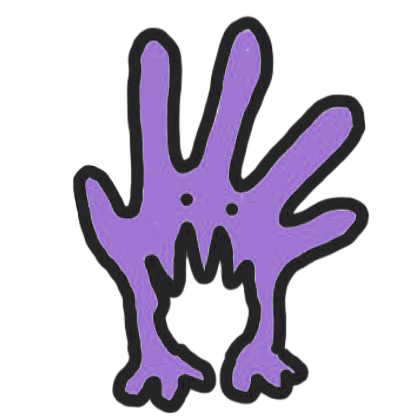
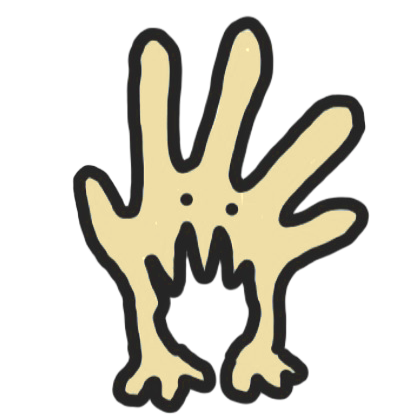
달그락 색을 컬러칩 한 벌로: 팀 색과 사용자 색
대장 민트, 소프트웨어 하늘, 하드웨어 연보라(전자회로 파랑보라 + 기구설계 분홍을 합친 색),
제품 디자인 노랑. 캐릭터 그림도 같은 색으로 다시 칠했다. 내 차례·새로 온 것처럼
사람에게 알리는 표시는 모두 사용자 색(살구)을 쓴다.

Claude-Session: https://claude.ai/code/session_01WjdEFsaTPx9PgsdKqemoJs

Changed region(s): [[0.1857, 0.0619, 0.8667, 0.9595]]

diff --git a/apps/web/app/styles.css b/apps/web/app/styles.css
@@ -235,18 +235,18 @@
 
 /* 새로 온 것. 숫자만 늘어나면 바뀐 줄을 모르고 지나가므로, 한 번 반짝이고
    점으로 남는다. 계속 깜빡이면 그게 더 큰 소음이라 반짝임은 한 번만 준다. */
-.new-dot{display:inline-flex;align-items:center;justify-content:center;min-width:7px;height:7px;border-radius:999px;background:#d98b3a;vertical-align:middle;margin-right:5px}
+.new-dot{display:inline-flex;align-items:center;justify-content:center;min-width:7px;height:7px;border-radius:999px;background:#edb69a;vertical-align:middle;margin-right:5px}
 .workbench-toggle .new-dot{width:7px;min-width:7px;height:7px;margin:0 0 0 5px}
-.workbench-toggle.has-new{box-shadow:0 0 0 1px #e6c08a}
+.workbench-toggle.has-new{box-shadow:0 0 0 1px #edb69a}
 .new-banner{display:flex;align-items:center;gap:2px;width:calc(100% - 44px);margin:0 22px 8px;padding:9px 12px;border:1px solid #ecd3a8;background:#fdf6e9;border-radius:10px;font-size:12px;color:#8a6a33;text-align:left;cursor:pointer}
 .new-banner:hover{background:#fbf0dc}
-.artifact-tabs button.is-new{box-shadow:inset 0 -2px 0 #d98b3a}
+.artifact-tabs button.is-new{box-shadow:inset 0 -2px 0 #edb69a}
 tr.is-new>td{background:#fdf7ec}
 tr.is-new{animation:new-flash 1.6s ease-out 1}
 .new-banner{animation:new-flash 1.6s ease-out 1}
 @keyframes new-flash{0%{background:#f6e2bd}60%{background:#fdf6e9}100%{background:transparent}}
 tr.is-new{animation-name:new-flash-row}
-@keyframes new-flash-row{0%{box-shadow:inset 3px 0 0 #d98b3a}100%{box-shadow:inset 3px 0 0 #e8d6b4}}
+@keyframes new-flash-row{0%{box-shadow:inset 3px 0 0 #edb69a}100%{box-shadow:inset 3px 0 0 #e8d6b4}}
 /* 손으로 그린 아이콘. 글자 옆에 설 때 글자와 같은 색·굵기로 보이도록 선을 글자색에 맡긴다. */
 .ink-icon{flex-shrink:0;vertical-align:-2px;margin-right:2px}
 .folder-rename-button .ink-icon,.folder-delete .ink-icon,.space-items button .ink-icon{margin:0}
@@ -371,11 +371,11 @@ tr.is-new{animation-name:new-flash-row}
 .buy-verify{background:#fbf2da;color:#8d6d2c}
 .buy-blocked{background:#fbe6e2;color:#a2493f}
 .connector-composer p+p{margin-top:8px}.connector-composer a{color:#3f7a6c}
-.helper-live{border:1px solid #d8e6e0;background:#f7fbf9;border-radius:13px;padding:12px 14px;margin-bottom:10px;max-height:38vh;overflow:auto}.helper-live-text{margin:0;font-size:14px;line-height:1.75;white-space:pre-wrap;word-break:keep-all;overflow-wrap:anywhere}.helper-live-step{margin:6px 0 0;font-size:12px;color:#6f7d75}.helper-live-error{margin:6px 0 0;font-size:13px;color:#a2452c}.helper-live-error button{margin-left:8px;font-size:12px}.composer-hint a{color:inherit}
-.form-findings{border-radius:12px;padding:12px 14px;margin:10px 0;font-size:13px;line-height:1.7}.form-findings.ok{background:#f1f7f4;border:1px solid #cfe3da}.form-findings.bad{background:#fdf3ef;border:1px solid #f0c4b3}.form-findings strong{display:block}.form-findings.bad strong{color:#a2452c}.form-findings ul{margin:6px 0 0;padding-left:18px}.form-findings details{margin-top:6px}.form-findings summary{cursor:pointer;color:#6f7d75}
+.helper-live{border:1px solid #d8e6e0;background:#f7fbf9;border-radius:13px;padding:12px 14px;margin-bottom:10px;max-height:38vh;overflow:auto}.helper-live-text{margin:0;font-size:14px;line-height:1.75;white-space:pre-wrap;word-break:keep-all;overflow-wrap:anywhere}.helper-live-step{margin:6px 0 0;font-size:12px;color:#6f7d75}.helper-live-error{margin:6px 0 0;font-size:13px;color:#a65a36}.helper-live-error button{margin-left:8px;font-size:12px}.composer-hint a{color:inherit}
+.form-findings{border-radius:12px;padding:12px 14px;margin:10px 0;font-size:13px;line-height:1.7}.form-findings.ok{background:#f1f7f4;border:1px solid #cfe3da}.form-findings.bad{background:#fdf3ef;border:1px solid #edb69a}.form-findings strong{display:block}.form-findings.bad strong{color:#a65a36}.form-findings ul{margin:6px 0 0;padding-left:18px}.form-findings details{margin-top:6px}.form-findings summary{cursor:pointer;color:#6f7d75}
 .suggest-chip{border:1px dashed #b9d4cb;background:#f1f7f4;color:#3f7a6c;border-radius:999px;padding:4px 12px;font-size:12px;cursor:pointer;max-width:60%;overflow:hidden;text-overflow:ellipsis;white-space:nowrap}.suggest-chip:hover{background:#e4f0ea}
 .account-hub{max-width:640px}.hub-tabs{flex-wrap:wrap}.hub-hint{margin:8px 0 14px}.hub-save{position:sticky;bottom:-1px;background:linear-gradient(to top,var(--paper,#fbfbf8) 78%,transparent);padding:16px 0 4px;margin-top:14px;display:grid;gap:8px}.hub-save small{color:#6f7d75}.hub-more{margin-top:16px;border-top:1px solid #e3e8e5;padding-top:12px}.hub-more summary{cursor:pointer;font-weight:600;font-size:13px}.helper-state{font-size:13px;padding:8px 12px;border-radius:10px;background:#f3f3f0;color:#6f7d75}.helper-state.on{background:#e4f0ea;color:#2e6b5c}
-.person-summary{border:1px solid #d8e6e0;background:#f7fbf9;border-radius:12px;padding:12px 14px;margin:14px 0;display:grid;gap:6px}.person-summary.missing{border-color:#f0c4b3;background:#fdf7f4}.person-summary p{margin:0;font-size:13px;color:#4c5a53}.person-summary button{justify-self:start}
+.person-summary{border:1px solid #d8e6e0;background:#f7fbf9;border-radius:12px;padding:12px 14px;margin:14px 0;display:grid;gap:6px}.person-summary.missing{border-color:#edb69a;background:#fdf3ec}.person-summary p{margin:0;font-size:13px;color:#4c5a53}.person-summary button{justify-self:start}
 /* 입력창은 쓴 만큼만 자란다. 높이를 끌어 맞추는 손잡이는 없앴다. */
 .resizable-workspace .composer-area{height:auto;min-height:0;overflow:visible;padding-top:8px;padding-bottom:8px}
 .resizable-workspace .composer{flex:none;min-height:0}
@@ -389,19 +389,19 @@ tr.is-new{animation-name:new-flash-row}
 /* ── Claude Code식 배치: 왼쪽 프로젝트와 방 · 가운데 대화 · 오른쪽 현황판 ── */
 .phase-strip,.team-strip,.new-banner{display:none!important}
 .resizable-workspace .chat-scroll,.resizable-workspace .composer-area,.resizable-workspace.artifacts-hidden .chat-scroll,.resizable-workspace.artifacts-hidden .composer-area{padding-left:max(18px,calc((100% - 760px)/2));padding-right:max(18px,calc((100% - 760px)/2))}
-.turn-badge{display:inline-flex;align-items:center;justify-content:center;min-width:18px;height:18px;padding:0 6px;border-radius:999px;background:#e2603f;color:#fff;font-size:11px;font-style:normal;font-weight:700;line-height:1;margin-left:auto}
+.turn-badge{display:inline-flex;align-items:center;justify-content:center;min-width:18px;height:18px;padding:0 6px;border-radius:999px;background:#edb69a;color:#fff;font-size:11px;font-style:normal;font-weight:700;line-height:1;margin-left:auto}
 .project-rooms button{display:flex;align-items:center;gap:6px;width:100%}
-.next-banner{display:flex;align-items:center;gap:10px;margin:10px max(18px,calc((100% - 760px)/2)) 0;padding:10px 14px;border:1px solid #f0c4b3;background:#fdf7f4;border-radius:12px;font-size:13px;text-align:left;cursor:pointer;color:var(--ink)}
-.next-banner .turn-badge{margin-left:0;padding:0 8px;height:20px}.next-banner span:not(.turn-badge){color:#6f7d75;flex:1;min-width:0;overflow:hidden;text-overflow:ellipsis;white-space:nowrap}.next-banner em{font-style:normal;color:#a2452c;white-space:nowrap}
+.next-banner{display:flex;align-items:center;gap:10px;margin:10px max(18px,calc((100% - 760px)/2)) 0;padding:10px 14px;border:1px solid #edb69a;background:#fdf3ec;border-radius:12px;font-size:13px;text-align:left;cursor:pointer;color:var(--ink)}
+.next-banner .turn-badge{margin-left:0;padding:0 8px;height:20px}.next-banner span:not(.turn-badge){color:#6f7d75;flex:1;min-width:0;overflow:hidden;text-overflow:ellipsis;white-space:nowrap}.next-banner em{font-style:normal;color:#a65a36;white-space:nowrap}
 .room-card{display:flex;gap:12px;align-items:center;justify-content:space-between;border:1px solid #d8e6e0;background:#f7fbf9;border-radius:12px;padding:10px 14px;margin:0 0 12px;font-size:13px}
-.room-card small{display:block;color:#6f7d75;font-size:11px}.room-card strong{display:block}.room-card p{margin:2px 0 0;color:#4c5a53}.room-card.turn-person{border-color:#f0c4b3;background:#fdf7f4}.room-card.turn-person small{color:#a2452c;font-weight:700}.room-card.turn-waiting,.room-card.held{background:#f6f6f3;border-style:dashed}.room-card.turn-blocked{border-color:#e2a48f}.room-card button{flex:none;border:1px solid #c9d6cf;background:#fff;border-radius:999px;padding:6px 12px;font-size:12px;cursor:pointer}
+.room-card small{display:block;color:#6f7d75;font-size:11px}.room-card strong{display:block}.room-card p{margin:2px 0 0;color:#4c5a53}.room-card.turn-person{border-color:#edb69a;background:#fdf3ec}.room-card.turn-person small{color:#a65a36;font-weight:700}.room-card.turn-waiting,.room-card.held{background:#f6f6f3;border-style:dashed}.room-card.turn-blocked{border-color:#e2a48f}.room-card button{flex:none;border:1px solid #c9d6cf;background:#fff;border-radius:999px;padding:6px 12px;font-size:12px;cursor:pointer}
 .status-panel{display:flex;flex-direction:column;min-height:0}.status-scroll{overflow:auto;padding:4px 16px 20px;flex:1;min-height:0}
 .status-block{padding:14px 0;border-bottom:1px solid #e6ebe8}.status-block:last-child{border-bottom:0}.status-block h3{margin:0 0 8px;font-size:12px;color:#6f7d75;font-weight:600;display:flex;gap:6px;align-items:baseline}.status-block h3 small{font-weight:400}
 .status-empty,.status-note{margin:0;font-size:12.5px;color:#7a877f;line-height:1.7}
-.next-card{display:grid;gap:3px;width:100%;text-align:left;border:1px solid #f0c4b3;background:#fdf7f4;border-radius:12px;padding:12px 14px;cursor:pointer;color:var(--ink)}.next-card small{color:#a2452c;font-size:11px;font-weight:700}.next-card strong{font-size:14px}.next-card span{font-size:12.5px;color:#4c5a53;line-height:1.6}.next-card em{font-style:normal;font-size:12px;color:#a2452c;margin-top:4px}
+.next-card{display:grid;gap:3px;width:100%;text-align:left;border:1px solid #edb69a;background:#fdf3ec;border-radius:12px;padding:12px 14px;cursor:pointer;color:var(--ink)}.next-card small{color:#a65a36;font-size:11px;font-weight:700}.next-card strong{font-size:14px}.next-card span{font-size:12.5px;color:#4c5a53;line-height:1.6}.next-card em{font-style:normal;font-size:12px;color:#a65a36;margin-top:4px}
 .status-list,.card-list{list-style:none;margin:8px 0 0;padding:0;display:grid;gap:2px}
 .status-list button{display:flex;align-items:center;gap:8px;width:100%;text-align:left;border:0;background:none;border-radius:8px;padding:7px 8px;font-size:13px;cursor:pointer;color:var(--ink)}.status-list button:hover{background:#eef3f0}.status-list small{color:#8a968f;font-size:11.5px;margin-left:auto}.status-list .turn-badge{margin-left:6px}.status-list .new-dot{margin-left:4px}
-.card-list li{display:flex;flex-wrap:wrap;align-items:center;gap:6px;padding:6px 8px;border-radius:8px;font-size:12.5px}.card-list small{color:#7a877f;flex-basis:100%;padding-left:14px}.card-list li.turn-person{background:#fdf7f4}.card-list li.turn-blocked small{color:#a2452c}.card-list li.held{opacity:.6}.card-list .mini{margin-left:auto;border:1px solid #c9d6cf;background:#fff;border-radius:999px;padding:3px 10px;font-size:11.5px;cursor:pointer}
+.card-list li{display:flex;flex-wrap:wrap;align-items:center;gap:6px;padding:6px 8px;border-radius:8px;font-size:12.5px}.card-list small{color:#7a877f;flex-basis:100%;padding-left:14px}.card-list li.turn-person{background:#fdf3ec}.card-list li.turn-blocked small{color:#a65a36}.card-list li.held{opacity:.6}.card-list .mini{margin-left:auto;border:1px solid #c9d6cf;background:#fff;border-radius:999px;padding:3px 10px;font-size:11.5px;cursor:pointer}
 .now-line{display:flex;flex-wrap:wrap;gap:4px 8px;align-items:baseline;width:100%;text-align:left;border:1px dashed #c9d6cf;background:none;border-radius:10px;padding:8px 10px;font-size:13px;cursor:pointer;color:var(--ink)}.now-line small{color:#8a968f;font-size:11.5px;margin-left:auto}.now-form{display:flex;gap:6px}.now-form input{flex:1;border:1px solid #c9d6cf;border-radius:8px;padding:7px 9px;font-size:13px}.now-form button{border:0;background:var(--ink);color:#fff;border-radius:8px;padding:0 12px;font-size:12px}
 .status-progress>*:not(h3){margin:0}
 .back-to-status{border:0;background:none;color:#3f7a6c;font-size:12px;padding:0;cursor:pointer;display:block;margin-bottom:2px}.viewer-title{font-size:14px}.artifact-tabs{display:none!important}
@@ -421,20 +421,20 @@ tr.is-new{animation-name:new-flash-row}
 .header-actions{display:flex;gap:8px;align-items:center}
 .me-button{display:flex;align-items:center;gap:8px;width:100%;margin-top:10px;padding:10px 12px;border:1px solid #d8dedb;background:#fff;border-radius:12px;font-size:13px;font-weight:600;cursor:pointer;color:var(--ink)}
 .status-details summary{cursor:pointer;font-size:12px;color:#6f7d75;padding:6px 0}.status-details[open] summary{margin-bottom:4px}
-.settings-rows{display:grid;gap:6px;margin-bottom:14px}.settings-rows button{display:flex;justify-content:space-between;align-items:baseline;gap:12px;text-align:left;border:1px solid #dfe5e1;background:#fff;border-radius:10px;padding:11px 13px;cursor:pointer;font-size:13.5px;color:var(--ink)}.settings-rows small{color:#7a877f;font-size:12px}.settings-logout button{border:0;background:none;color:#a2452c;font-size:13px;padding:8px 0;cursor:pointer}
+.settings-rows{display:grid;gap:6px;margin-bottom:14px}.settings-rows button{display:flex;justify-content:space-between;align-items:baseline;gap:12px;text-align:left;border:1px solid #dfe5e1;background:#fff;border-radius:10px;padding:11px 13px;cursor:pointer;font-size:13.5px;color:var(--ink)}.settings-rows small{color:#7a877f;font-size:12px}.settings-logout button{border:0;background:none;color:#a65a36;font-size:13px;padding:8px 0;cursor:pointer}
 .helper-composer textarea::placeholder{color:#9aa69f}
 /* ── 정밀 목업 보기 (precise-mockup.tsx) ── */
 .pm{display:grid;gap:12px;min-width:0}
 .pm-stage{position:relative;border:1px solid #d8dedb;border-radius:13px;background:linear-gradient(#f3f2ee,#e9e7e1);overflow:hidden;height:440px}
 .pm-canvas{position:absolute;inset:0;touch-action:none;cursor:grab}.pm-canvas:active{cursor:grabbing}.pm-canvas canvas{display:block;width:100%;height:100%}
-.pm-pill{position:absolute;top:12px;right:12px;background:#fff;border:1px solid #d8dedb;border-radius:999px;padding:6px 13px;font-size:12.5px;color:var(--ink);box-shadow:0 2px 8px #223c3012}.pm-pill b{font-weight:700}.pm-pill.ok b{color:#2f8a5f}.pm-pill.bad{border-color:#f0c4b3}.pm-pill.bad b{color:#c2351d}
+.pm-pill{position:absolute;top:12px;right:12px;background:#fff;border:1px solid #d8dedb;border-radius:999px;padding:6px 13px;font-size:12.5px;color:var(--ink);box-shadow:0 2px 8px #223c3012}.pm-pill b{font-weight:700}.pm-pill.ok b{color:#2f8a5f}.pm-pill.bad{border-color:#edb69a}.pm-pill.bad b{color:#c2351d}
 .pm-hint{position:absolute;left:14px;bottom:10px;font-size:11.5px;color:#8a938d;pointer-events:none}
 .pm-tip{position:absolute;transform:translate(-50%,-135%);background:#1f2a26;color:#fff;font-size:11.5px;padding:4px 9px;border-radius:7px;white-space:nowrap;pointer-events:none;z-index:2}
 .pm-fallback{position:absolute;inset:0;display:flex;align-items:center;justify-content:center;margin:0;padding:24px;text-align:center;font-size:13px;color:#6f7d75}
 .pm-card{border:1px solid #d8dedb;border-radius:13px;background:#fff;padding:14px 16px;min-width:0}
 .pm-row{display:flex;gap:12px;align-items:flex-start;margin-bottom:10px}.pm-row-label{flex:none;width:64px;padding-top:7px;font-size:12px;color:#7a877f}
 .pm-chips{display:flex;flex-wrap:wrap;gap:6px;min-width:0}
-.pm-chip{display:inline-flex;align-items:center;gap:6px;border:1px solid #d8dedb;border-radius:999px;padding:5px 11px 5px 8px;font-size:12.5px;cursor:pointer;background:#f7f8f6;color:var(--ink);user-select:none}.pm-chip input{accent-color:#3f7a6c;margin:0}.pm-chip i{width:11px;height:11px;border-radius:3px;border:1px solid #0000001f;flex:none}.pm-chip.off{opacity:.5;background:#fff}.pm-chip.bad{border-color:#e9a892;background:#fdf3ef}.pm-chip em{font-style:normal;font-size:10.5px;color:#a2452c;border:1px solid #f0c4b3;border-radius:999px;padding:0 5px}
+.pm-chip{display:inline-flex;align-items:center;gap:6px;border:1px solid #d8dedb;border-radius:999px;padding:5px 11px 5px 8px;font-size:12.5px;cursor:pointer;background:#f7f8f6;color:var(--ink);user-select:none}.pm-chip input{accent-color:#3f7a6c;margin:0}.pm-chip i{width:11px;height:11px;border-radius:3px;border:1px solid #0000001f;flex:none}.pm-chip.off{opacity:.5;background:#fff}.pm-chip.bad{border-color:#e9a892;background:#fdf3ef}.pm-chip em{font-style:normal;font-size:10.5px;color:#a65a36;border:1px solid #edb69a;border-radius:999px;padding:0 5px}
 .pm-sliders{display:flex;flex-wrap:wrap;gap:8px 22px;margin:4px 0 12px}.pm-sliders label{display:flex;align-items:center;gap:10px;font-size:12px;color:#7a877f;flex:1 1 200px;min-width:0}.pm-sliders input{flex:1;min-width:0;accent-color:#3f7a6c}
 .pm-views{display:flex;flex-wrap:wrap;gap:6px;align-items:center}.pm-views button{border:1px solid #d8dedb;background:#fff;border-radius:9px;padding:6px 13px;font-size:12.5px;cursor:pointer;color:var(--ink)}.pm-views button.on{background:#e4f0ea;border-color:#8fd0c3;color:#2e6b5c;font-weight:600}.pm-size{margin-left:auto;font-size:11.5px;color:#8a938d}
 .pm-title{margin:0 0 8px;font-size:14px}
@@ -442,12 +442,12 @@ tr.is-new{animation-name:new-flash-row}
 .pm-allpass{margin:0 0 6px;font-size:13px;color:#2e6b5c}.pm-note{margin:6px 0 0;font-size:11.5px;color:#8a938d}
 .pm-checks{list-style:none;margin:0;padding:0;display:grid;gap:3px}
 .pm-checks button{display:grid;grid-template-columns:20px minmax(0,1fr);column-gap:6px;width:100%;text-align:left;border:1px solid transparent;background:none;border-radius:9px;padding:7px 9px;cursor:pointer;color:var(--ink);font-size:13px}.pm-checks button:hover{background:#f3f6f4}.pm-checks button.bad{background:#fdf3ef}.pm-checks button.focused{border-color:#3f7a6c;background:#eef5f2}.pm-checks button.bad.focused{border-color:#c2351d}
-.pm-checks b{font-weight:600;overflow-wrap:anywhere}.pm-checks small{grid-column:2;font-size:12px;color:#6f7d75}.pm-checks .bad small{color:#a2452c}
+.pm-checks b{font-weight:600;overflow-wrap:anywhere}.pm-checks small{grid-column:2;font-size:12px;color:#6f7d75}.pm-checks .bad small{color:#a65a36}
 .pm-mark{color:#c2351d;font-weight:700}.pm-mark.ok{color:#2f8a5f}
 .pm-passed{margin-top:8px}.pm-passed summary{cursor:pointer;font-size:12.5px;color:#6f7d75;padding:4px 0}
 @media(max-width:600px){.pm-stage{height:300px}.pm-row{flex-direction:column;gap:4px}.pm-row-label{width:auto;padding-top:0}.pm-size{margin-left:0;flex-basis:100%}.pm-card{padding:12px}}
-.my-workshop{display:flex;align-items:center;gap:8px;width:100%;margin-top:8px;padding:10px 12px;border:1px solid #d8dedb;background:#fff;border-radius:12px;font-size:13px;font-weight:600;cursor:pointer;color:var(--ink)}.my-workshop.has-turn{border-color:#f0c4b3;background:#fdf7f4}
-.workshop-modal{max-width:560px}.workshop-group h3{margin:16px 0 6px;font-size:13px;color:#6f7d75}.workshop-group ul{list-style:none;margin:0;padding:0;display:grid;gap:6px}.workshop-group button{display:flex;align-items:center;gap:10px;width:100%;text-align:left;border:1px solid #f0c4b3;background:#fdf7f4;border-radius:12px;padding:11px 13px;cursor:pointer;color:var(--ink);font-size:13.5px}.workshop-group button span:nth-child(2){flex:1;min-width:0;display:grid;gap:2px}.workshop-group small{color:#4c5a53;font-size:12.5px;line-height:1.6}.workshop-group em{font-style:normal;font-size:12px;color:#a2452c;white-space:nowrap}
+.my-workshop{display:flex;align-items:center;gap:8px;width:100%;margin-top:8px;padding:10px 12px;border:1px solid #d8dedb;background:#fff;border-radius:12px;font-size:13px;font-weight:600;cursor:pointer;color:var(--ink)}.my-workshop.has-turn{border-color:#edb69a;background:#fdf3ec}
+.workshop-modal{max-width:560px}.workshop-group h3{margin:16px 0 6px;font-size:13px;color:#6f7d75}.workshop-group ul{list-style:none;margin:0;padding:0;display:grid;gap:6px}.workshop-group button{display:flex;align-items:center;gap:10px;width:100%;text-align:left;border:1px solid #edb69a;background:#fdf3ec;border-radius:12px;padding:11px 13px;cursor:pointer;color:var(--ink);font-size:13.5px}.workshop-group button span:nth-child(2){flex:1;min-width:0;display:grid;gap:2px}.workshop-group small{color:#4c5a53;font-size:12.5px;line-height:1.6}.workshop-group em{font-style:normal;font-size:12px;color:#a65a36;white-space:nowrap}
 .gear-menu{position:relative}.gear-menu summary{list-style:none;cursor:pointer;width:32px;height:32px;display:flex;align-items:center;justify-content:center;border-radius:8px;font-size:16px;color:#6f7d75}.gear-menu summary::-webkit-details-marker{display:none}.gear-menu summary:hover{background:#eef3f0}.gear-menu[open]>div{position:absolute;right:0;top:36px;z-index:5;background:#fff;border:1px solid #d8dedb;border-radius:12px;box-shadow:0 8px 24px #223c3020;padding:6px;display:grid;gap:2px;min-width:210px}.gear-menu button{display:grid;gap:2px;text-align:left;border:0;background:none;border-radius:8px;padding:9px 10px;font-size:13px;cursor:pointer;color:var(--ink)}.gear-menu button:hover{background:#eef3f0}.gear-menu small{color:#7a877f;font-size:11.5px}
 .pm-summary{margin:0 0 12px;font-size:13px;color:#4c5a53;line-height:1.7}
 .gear-menu summary{border:0;background:none;padding:0}
@@ -468,3 +468,15 @@ tr.is-new{animation-name:new-flash-row}
 .photo-chip{position:relative;width:56px;height:56px;border-radius:9px;overflow:hidden;border:1px solid #d7dfda;flex:none}
 .photo-chip img{width:100%;height:100%;object-fit:cover;display:block}
 .photo-chip button{position:absolute;top:2px;right:2px;width:18px;height:18px;border-radius:50%;border:0;background:rgba(0,0,0,.62);color:#fff;font-size:12px;line-height:1;padding:0;cursor:pointer}
+
+/* ── 달그락 색 한 벌 ─────────────────────────────────────────────────────────
+   대장 민트, 소프트웨어 하늘, 하드웨어 연보라(= 전자회로 파랑보라 + 기구설계 분홍을 합친 색),
+   제품 디자인 노랑. 사람에게 알리는 것(내 차례, 새로 온 것)은 모두 사용자 색을 쓴다. */
+:root{--c-chief:#9DD2C8;--c-hw-team:#B7B3D7;--c-sw:#AAC8DF;--c-id:#F0DFA7;--c-ee:#9DA2DF;--c-me:#DCB2D2;--c-user:#EDB69A;
+  --t-chief:#2f7868;--t-sw:#3f6f95;--t-id:#8a6f1c;--t-ee:#4a51a8;--t-me:#99527f;--t-user:#a65a36;--ink-user:#5a2e17}
+.dot-chief{background:var(--c-chief)}.dot-hw{background:var(--c-ee)}.dot-sw{background:var(--c-sw)}.dot-me{background:var(--c-me)}.dot-id{background:var(--c-id)}
+.agent-chief .message-meta strong{color:var(--t-chief)}.agent-hw .message-meta strong{color:var(--t-ee)}.agent-sw .message-meta strong{color:var(--t-sw)}.agent-me .message-meta strong{color:var(--t-me)}.agent-id .message-meta strong{color:var(--t-id)}
+.room-team{display:flex;align-items:center;gap:6px}.room-team::before{content:"";width:8px;height:8px;border-radius:50%;background:var(--c-hw-team)}
+.turn-badge,.rv-heading em{background:var(--c-user);color:var(--ink-user)}
+.user-avatar{background:var(--c-user);color:var(--ink-user);font-weight:700}
+.rooms .room-team{justify-content:flex-start;text-align:left;margin:8px 0 2px 12px}

diff --git a/apps/web/app/forge-scene.tsx b/apps/web/app/forge-scene.tsx
@@ -11,7 +11,7 @@ import { agentName } from "../lib/workflow";
 export type RoomState = "my_turn" | "blocked" | "working" | "waiting" | "done" | "idle";
 
 /** styles.css의 .agent-dot.dot-* 와 같은 색 */
-export const AGENT_COLOR: Record<AgentId, string> = { chief: "#548b7c", hw: "#d2594b", sw: "#5b8fd9", me: "#d9a928", id: "#8f6fd0" };
+export const AGENT_COLOR: Record<AgentId, string> = { chief: "#9DD2C8", hw: "#9DA2DF", sw: "#AAC8DF", me: "#DCB2D2", id: "#F0DFA7" };
 /** 팀 색으로 칠한 달그락 그림 */
 const art = (room: AgentId, frame: "idle" | "thinking_1" | "thinking_2") => `/characters/${room === "chief" ? "" : `${room}/`}${frame}.png`;
 const STATE_LABEL: Record<RoomState, string> = { my_turn: "내 차례", blocked: "막힘", working: "작업 중", waiting: "기다리는 중", done: "끝남", idle: "쉬는 중" };
@@ -85,7 +85,7 @@ function Station({ room, state, count, selected, live, compact, late }: { room: 
         ? <>{/* 상자 옆에서 기다린다 */}
             <rect x="80" y="64" width="26" height="22" rx="2" fill="#e8d7b9" stroke={INK} strokeWidth="1.6" />
             <path d="M80 72h26M93 64v22" stroke={INK} strokeWidth="1.3" />
-            {late && <g><circle cx="106" cy="62" r="7" fill="#e2603f" stroke={INK} strokeWidth="1.3" /><path d="M106 58v5" stroke="#fff" strokeWidth="1.8" strokeLinecap="round" /><circle cx="106" cy="65.6" r="1" fill="#fff" /></g>}
+            {late && <g><circle cx="106" cy="62" r="7" fill="#edb69a" stroke={INK} strokeWidth="1.3" /><path d="M106 58v5" stroke="#5a2e17" strokeWidth="1.8" strokeLinecap="round" /><circle cx="106" cy="65.6" r="1" fill="#5a2e17" /></g>}
           </>
         : <Anvil color={color} />}
 
@@ -105,7 +105,7 @@ function Station({ room, state, count, selected, live, compact, late }: { room: 
     {state === "my_turn" && <g className="fs-sign">
       <path d="M96 52v32" stroke={INK} strokeWidth="1.8" strokeLinecap="round" />
       <rect x="82" y="26" width="28" height="26" rx="4" fill="#fff7f2" stroke={INK} strokeWidth="1.6" />
-      <path d="M96 32v10" stroke="#e2603f" strokeWidth="3.2" strokeLinecap="round" /><circle cx="96" cy="47" r="1.9" fill="#e2603f" />
+      <path d="M96 32v10" stroke="#edb69a" strokeWidth="3.2" strokeLinecap="round" /><circle cx="96" cy="47" r="1.9" fill="#edb69a" />
     </g>}
 
     {state === "blocked" && <g>
@@ -121,7 +121,7 @@ function Station({ room, state, count, selected, live, compact, late }: { room: 
       <circle cx="51" cy="16" r="2" fill={INK} /><circle cx="59" cy="16" r="2" fill={INK} /><circle cx="67" cy="16" r="2" fill={INK} />
     </g>}
 
-    {count > 0 && <g><circle cx="113" cy="15" r={compact ? 12 : 10} fill="#e2603f" /><text x="113" y={compact ? 20 : 19} textAnchor="middle" fontSize={compact ? 15 : 12.5} fontWeight="700" fill="#fff">{count}</text></g>}
+    {count > 0 && <g><circle cx="113" cy="15" r={compact ? 12 : 10} fill="#edb69a" /><text x="113" y={compact ? 20 : 19} textAnchor="middle" fontSize={compact ? 15 : 12.5} fontWeight="700" fill="#5a2e17">{count}</text></g>}
     {selected && <rect className="fs-selected" x="2" y="2" width="124" height="92" rx="10" fill="none" />}
   </svg>;
 }
@@ -175,7 +175,7 @@ export default function ForgeScene({ board, shortNames, activeRoom, liveRoom, on
       <svg className="fs-art" viewBox="0 0 128 96" aria-hidden="true" focusable="false">
         <ellipse cx="64" cy="89" rx="40" ry="5" fill="#e9ebe6" />
         <rect x="42" y="50" width="44" height="36" rx="3" fill="#e8d7b9" stroke={INK} strokeWidth="1.6" /><path d="M42 62h44M64 50v36" stroke={INK} strokeWidth="1.3" />
-        <circle cx="88" cy="46" r="11" fill="#e2603f" stroke={INK} strokeWidth="1.4" /><path d="M88 40v7" stroke="#fff" strokeWidth="2.6" strokeLinecap="round" /><circle cx="88" cy="51.5" r="1.5" fill="#fff" />
+        <circle cx="88" cy="46" r="11" fill="#edb69a" stroke={INK} strokeWidth="1.4" /><path d="M88 40v7" stroke="#5a2e17" strokeWidth="2.6" strokeLinecap="round" /><circle cx="88" cy="51.5" r="1.5" fill="#5a2e17" />
       </svg>
       <span className="fs-text"><b>예정일 지남</b>{!compact && <small className="fs-line">{clip(lateDeliveries.map((d) => d.label).join(", "), 30)}</small>}</span>
     </div>}

diff --git a/apps/web/app/css/verify.css b/apps/web/app/css/verify.css
@@ -13,14 +13,14 @@
 .vf-group{margin:8px 0 2px;font-size:12px;font-weight:600;color:#3f7a6c}
 .vf-rung{border:1px solid #d8dedb;border-radius:12px;background:#fff;min-width:0;overflow:hidden}
 .vf-rung.vf-now{border-color:#8fd0c3;box-shadow:0 0 0 2px #8fd0c333}
-.vf-rung.vf-fail{border-color:#f0c4b3;background:#fdf7f4}
+.vf-rung.vf-fail{border-color:#edb69a;background:#fdf3ec}
 .vf-rung.vf-locked,.vf-rung.vf-unavailable{background:#f8f8f6}
 .vf-rung-head{display:flex;align-items:flex-start;gap:10px;width:100%;text-align:left;border:0;background:none;padding:11px 13px;cursor:pointer;color:inherit;font:inherit}
 .vf-rung-head:disabled{cursor:default}
 .vf-pill{flex:none;font-size:11px;font-weight:700;line-height:1;padding:5px 8px;border-radius:999px;background:#eef1ef;color:#6f7d75;margin-top:2px;white-space:nowrap}
 .vf-current .vf-pill,.vf-now .vf-pill{background:#3f7a6c;color:#fff}
 .vf-pass .vf-pill{background:#e4f0ea;color:#2e6b5c}
-.vf-fail .vf-pill{background:#a2452c;color:#fff}
+.vf-fail .vf-pill{background:#a65a36;color:#fff}
 .vf-unknown .vf-pill{background:#f3ead2;color:#7a5a12}
 .vf-skipped .vf-pill{background:#eceae6;color:#6f6a60}
 .vf-title{min-width:0;overflow-wrap:anywhere;word-break:keep-all;font-weight:600}
@@ -39,6 +39,6 @@
 .vf-unit{font-weight:600;color:#6f7d75}
 .vf-primary,.vf-secondary{border-radius:10px;padding:9px 14px;font:inherit;font-size:13px;font-weight:600;cursor:pointer}
 .vf-primary{border:0;background:#3f7a6c;color:#fff}.vf-primary:disabled{opacity:.45;cursor:default}
-.vf-secondary{border:1px solid #f0c4b3;background:#fdf7f4;color:#a2452c}
+.vf-secondary{border:1px solid #edb69a;background:#fdf3ec;color:#a65a36}
 .vf-link{justify-self:start;border:0;background:none;padding:0;font:inherit;font-size:12.5px;color:#6f7d75;text-decoration:underline;cursor:pointer}
 @media(max-width:600px){.vf-row .vf-primary,.vf-row .vf-secondary{flex:1 1 auto}}

diff --git a/apps/web/app/css/revision.css b/apps/web/app/css/revision.css
@@ -1,10 +1,10 @@
 /* 수정안 (제작 후 수정) */
 .rv-view{display:grid;gap:12px;min-width:0}
 .rv-heading{margin:0;font-size:13px;color:#6f7d75;font-weight:600;display:flex;align-items:center;gap:6px}
-.rv-heading em{display:inline-flex;align-items:center;justify-content:center;min-width:18px;height:18px;padding:0 6px;border-radius:999px;background:#e2603f;color:#fff;font-size:11px;font-style:normal;font-weight:700}
+.rv-heading em{display:inline-flex;align-items:center;justify-content:center;min-width:18px;height:18px;padding:0 6px;border-radius:999px;background:#edb69a;color:#fff;font-size:11px;font-style:normal;font-weight:700}
 .rv-empty{margin:0;font-size:13px;color:#6f7d75;line-height:1.7}
 .rv-card{border:1px solid #d8dedb;border-radius:12px;background:#fff;padding:14px;display:grid;gap:10px;min-width:0;overflow-wrap:anywhere;word-break:keep-all}
-.rv-card.rv-proposed{border-color:#f0c4b3;background:#fdf7f4}
+.rv-card.rv-proposed{border-color:#edb69a;background:#fdf3ec}
 .rv-card.rv-rejected,.rv-card.rv-superseded{opacity:.75}
 .rv-card header{display:grid;gap:2px}
 .rv-card header small{font-size:11.5px;color:#6f7d75}
@@ -15,7 +15,7 @@
 .rv-block h4,.rv-block summary{margin:0 0 2px;font-size:11.5px;color:#6f7d75;font-weight:600}
 .rv-block summary{cursor:pointer}
 .rv-block ul,.rv-block ol{margin:0;padding-left:18px}
-.rv-lost h4{color:#a2452c}
+.rv-lost h4{color:#a65a36}
 .rv-redo ol{display:grid;gap:6px}
 .rv-redo li b{display:block}
 .rv-redo li span{display:block;color:#4c5a53;font-size:12.5px;white-space:pre-line}

diff --git a/apps/web/app/css/files.css b/apps/web/app/css/files.css
@@ -18,12 +18,12 @@
 .ft-name{font-size:13px;color:var(--ink);min-width:0;overflow-wrap:anywhere;word-break:break-all}
 .ft-badge{flex:none;font-size:11px;line-height:1;padding:4px 7px;border-radius:999px;border:1px solid #d8dedb;color:#6f7d75;background:#f6f7f5;white-space:nowrap}
 .ft-badge-final{border-color:#8fd0c3;background:#e4f0ea;color:#2e6b5c;font-weight:700}
-.ft-badge-revised{border-color:#f0c4b3;background:#fdf7f4;color:#a2452c}
+.ft-badge-revised{border-color:#edb69a;background:#fdf3ec;color:#a65a36}
 .ft-badge-superseded{text-decoration:line-through;opacity:.7}
 .ft-superseded .ft-name{color:#8a968f}
-.ft-new{flex:none;width:7px;height:7px;border-radius:50%;background:#e2603f}
+.ft-new{flex:none;width:7px;height:7px;border-radius:50%;background:#edb69a}
 .ft-meta{display:flex;flex-wrap:wrap;gap:2px 10px;font-size:11.5px;color:#8a968f;min-width:0}.ft-display{overflow-wrap:anywhere;word-break:break-all}
-.ft-warn{color:#a2452c}
+.ft-warn{color:#a65a36}
 .ft-actions button,.ft-actions a,.ft-out-actions button,.ft-out-actions a{border:1px solid #d8dedb;background:#fff;border-radius:999px;padding:4px 11px;font-size:12px;color:var(--ink);text-decoration:none;cursor:pointer;line-height:1.4}
 .ft-actions button:hover,.ft-actions a:hover,.ft-out-actions button:hover,.ft-out-actions a:hover{background:#eef3f0}
 .ft-actions .ft-final{border-color:#3f7a6c;color:#3f7a6c;font-weight:600}.ft-actions .ft-quiet{border-color:transparent;color:#8a968f}

diff --git a/apps/web/app/css/card-prompt.css b/apps/web/app/css/card-prompt.css
@@ -1,6 +1,6 @@
 /* 요청 · 질문 · 제안에 답하는 폼 */
 .cp{display:grid;gap:10px;margin-top:10px;width:100%}
-.cp-kind{justify-self:start;font-size:11px;font-weight:700;border-radius:999px;padding:2px 9px;background:#fff;border:1px solid #f0c4b3;color:#a2452c}
+.cp-kind{justify-self:start;font-size:11px;font-weight:700;border-radius:999px;padding:2px 9px;background:#fff;border:1px solid #edb69a;color:#a65a36}
 .cp-request .cp-kind{border-color:#cfe0d9;color:#3f7a6c}.cp-question .cp-kind{border-color:#cdd3ee;color:#4a56a0}
 .cp-fields{display:grid;gap:10px}.cp-field{display:grid;gap:5px;font-size:13px}.cp-field>span:first-child{font-weight:600}.cp-field small{color:#6f7d75;font-weight:400}
 .cp input[type=text],.cp input[type=number],.cp input[type=date],.cp-foot input,.cp-plain input{border:1px solid #cfd8d2;border-radius:9px;padding:8px 10px;font-size:14px;background:#fff;color:var(--ink);min-width:0;width:100%}

diff --git a/apps/web/app/css/forge-scene.css b/apps/web/app/css/forge-scene.css
@@ -16,7 +16,7 @@
 .fs-tag-my_turn{color:#c4442b!important}.fs-tag-blocked{color:#c4442b!important}.fs-tag-working{color:#3f7a6c!important}.fs-tag-done{color:#9aa69f!important}
 
 /* 상태별 모습 */
-.fs-is-my_turn{background:#fdf7f4;border-color:#f0c4b3}
+.fs-is-my_turn{background:#fdf3ec;border-color:#edb69a}
 .fs-is-waiting{border:1px dashed #c9d0cc}
 .fs-is-blocked{background:#fdf1ed;border-color:#e2a48f}
 .fs-is-done .fs-art{opacity:.55}
